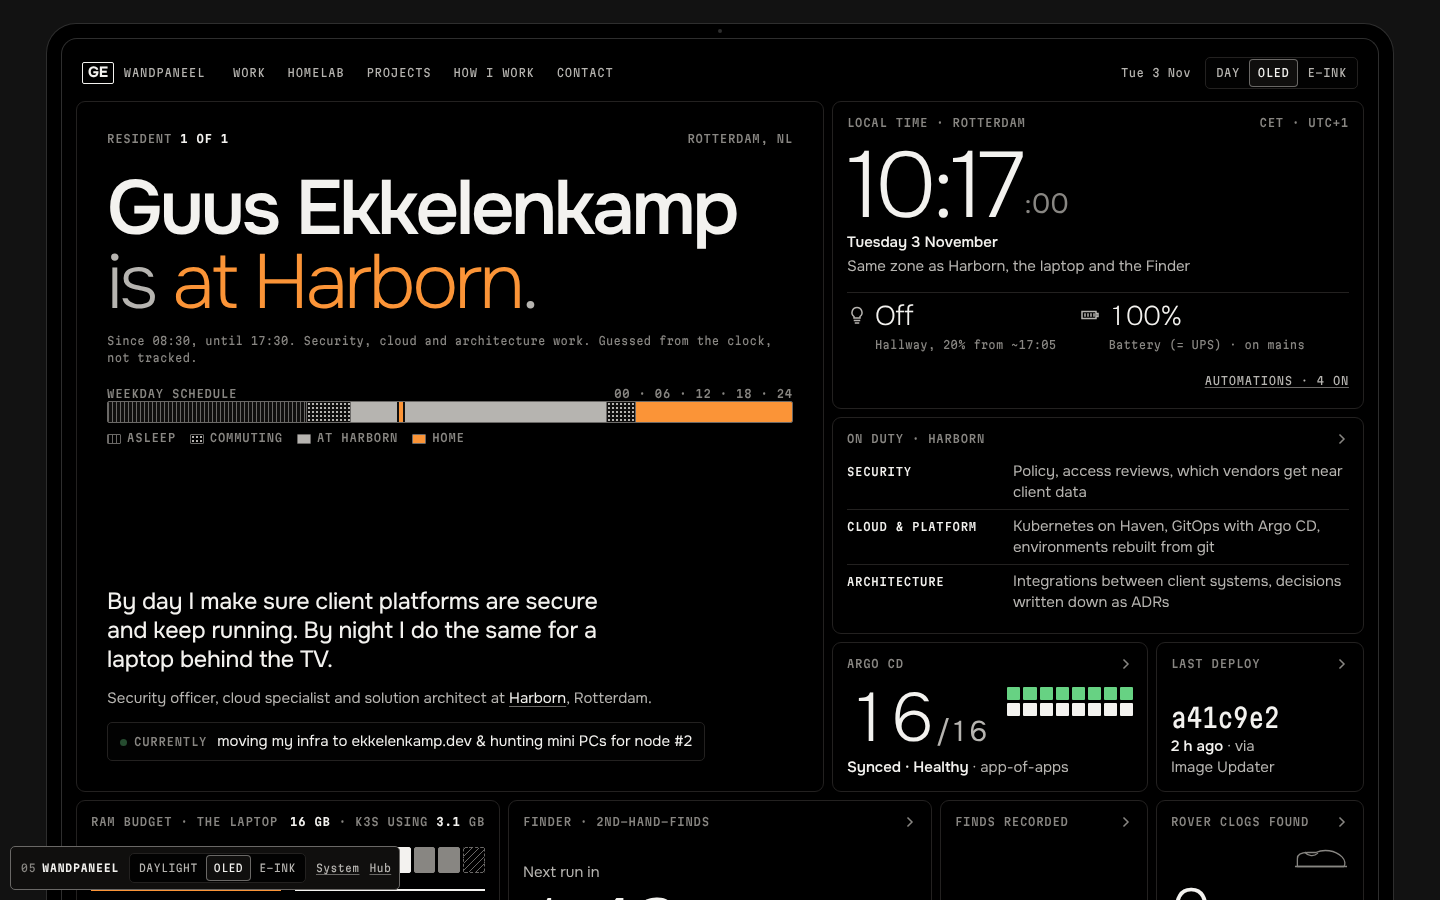
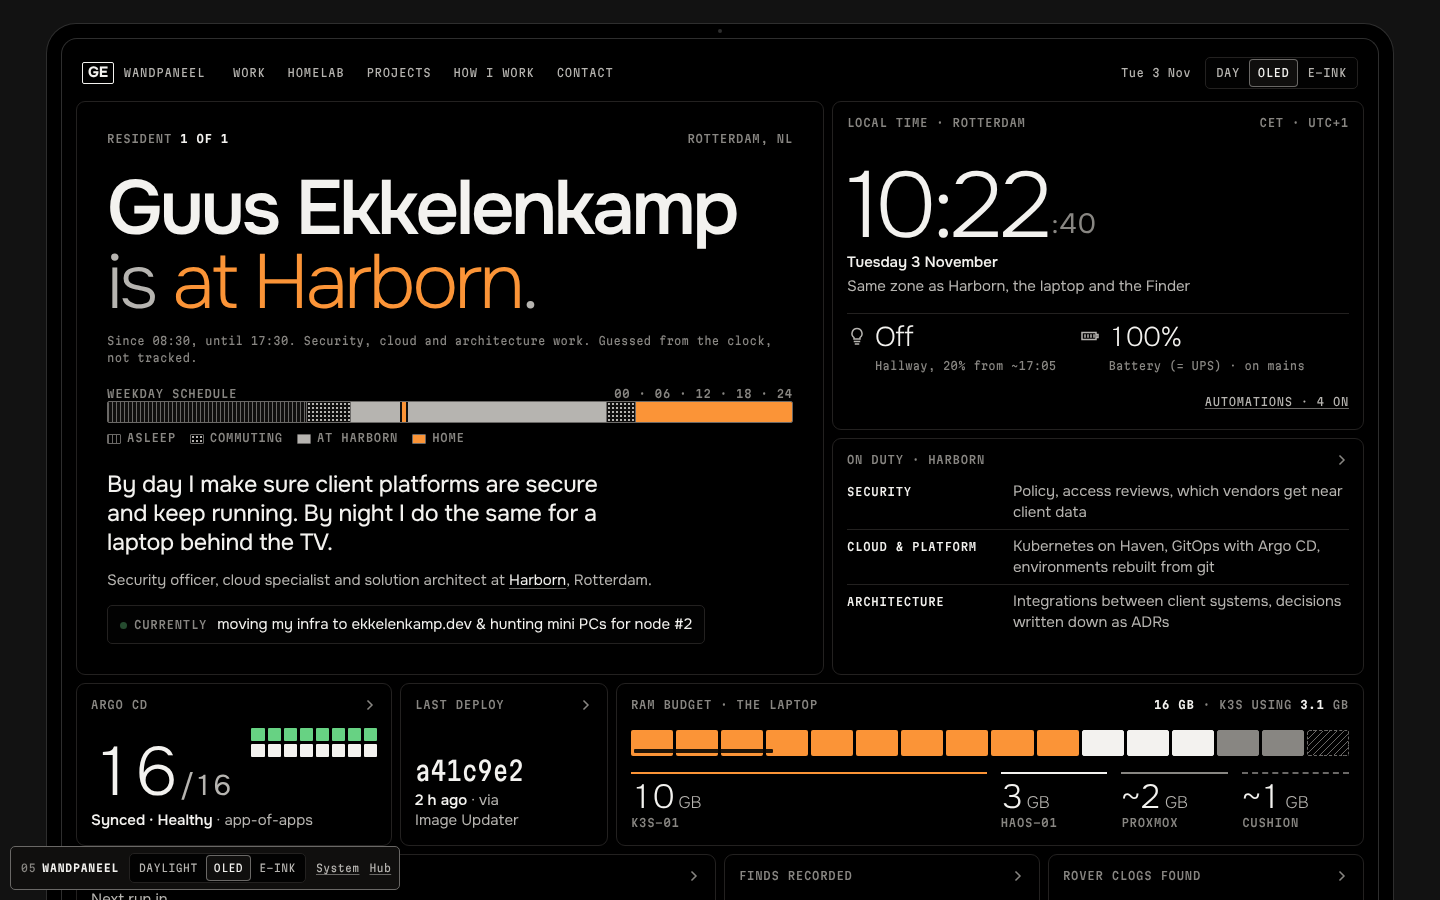
Add direction 05 Wandpaneel (homepage, system sheet, previews)
Claude-Session: https://claude.ai/code/session_01MZiGAcmWGZMW18cgyC5YR7

diff --git a/design/directions/05-wall-panel/wandpaneel.css b/design/directions/05-wall-panel/wandpaneel.css
@@ -513,9 +513,10 @@
   .arch__name { display: flex; flex-wrap: wrap; justify-content: space-between; gap: 2px 12px; margin-block-end: 10px; }
   .arch__name b { font-weight: 600; font-size: var(--step-0); letter-spacing: -0.01em; }
   .arch__kids { display: grid; gap: 8px; }
-  @media (min-width: 760px) { .arch__kids--vms { grid-template-columns: 5fr 3fr; } }
+  .arch, .arch__box { container-type: inline-size; }
+  @container (min-width: 640px) { .arch__kids--vms { grid-template-columns: 5fr 3fr; } }
   .arch__leaf { display: grid; grid-template-columns: 1fr; gap: 0 12px; padding-block: 7px; border-block-start: 1px solid var(--line); }
-  @media (min-width: 600px) { .arch__leaf { grid-template-columns: minmax(10rem, 1fr) minmax(0, 1.4fr); } }
+  @container (min-width: 380px) { .arch__leaf { grid-template-columns: minmax(8rem, 1fr) minmax(0, 1.4fr); } }
   .arch__leaf:first-child { border: 0; padding-block-start: 0; }
   .arch__leaf span:first-child { font-weight: 560; }
   .arch__leaf span + span { color: var(--ink-muted); }

diff --git a/design/directions/03-poster/system.html b/design/directions/03-poster/system.html
@@ -49,7 +49,8 @@
   .sw { display: inline-block; width: 1.1em; height: 1.1em; vertical-align: -.2em; margin-inline-end: .5em; border: 1px solid var(--line-strong); }
   .semtable__p { font-family: var(--font-mono); font-size: .9em; }
   .semtable__hex { font-family: var(--font-mono); font-size: .8em; color: var(--ink-muted); }
-  .ctables { display: grid; gap: var(--space-xl); }
+  .ctables { display: grid; gap: var(--space-xl); grid-template-columns: minmax(0, 1fr); }
+  .ctable, .comp, .stage { min-width: 0; }
   .ctable__title { font-family: var(--font-display); font-weight: 900; font-stretch: 125%; text-transform: uppercase; font-size: var(--step-2); }
   .ctable__note { color: var(--ink-muted); margin-block-end: var(--space-xs); }
   .ctable { border-inline-start: var(--rule-heavy) solid transparent; padding-inline-start: var(--space-s); }

diff --git a/design/directions/05-wall-panel/README.md b/design/directions/05-wall-panel/README.md
@@ -1,0 +1,84 @@
+# 05 · Wandpaneel (wall panel)
+
+## Concept
+
+The site is the wall panel of Guus's smart home, turned into a status interface for a person.
+The first screen is one dense, typeset panel of live-feeling state: the Rotterdam clock, a guess
+at where Guus is right now ("is at Harborn", derived from the time of day, never tracked), what
+he's on duty for at Harborn (security, cloud & platform, architecture), Argo CD at 16/16, the last
+deploy, the RAM budget as sixteen 1 GB cells, the Finder's countdown to its next run, 283 finds
+and 0 Rover clogs ("Still looking."). On wide screens the panel sits in a physical tablet frame on
+a plaster wall. Every tile links into a "detail view" below: rows for specs, settings toggles for
+principles, an event log for the gotchas, trigger → action rows for automations, job panes for the
+day job. Numbers are the imagery.
+
+## Why it fits Guus
+
+He actually has a wall panel, and the homelab is the thing he's proudest of. A status UI is the
+most honest way to "show depth instead of claiming it": every number on the first screen is real
+(or plainly labelled illustrative) and every one opens into the story behind it. The day job gets
+its own tile on the first screen and a full detail view right before the homelab, and the two are
+tied together: each job pane ends with a "same rule at home" link into the matching homelab
+section, and the view closes with the bridge line ("Same rules, smaller blast radius"). Job titles
+only appear as small facts; the copy says what the work is.
+
+## Options (tokens only)
+
+| Option | What it is | Pick it when |
+|---|---|---|
+| `daylight` (default light) | Warm cream screen on a plaster wall, umber ink, one lamp-amber accent, soft frame shadow | The default. Friendly, warm, reads as a physical object |
+| `oled` (default for dark preference) | True black, hairlines instead of shadows, one vivid orange, no glows | Dark-mode visitors; the most "premium device" version |
+| `e-ink` | Pure greyscale, 0 radius, CSS dither patterns in meters, no tweening, seconds hidden, a 300 ms black/white refresh flash on switching (skipped under reduced motion) | The most distinctive; a great "remember it tomorrow" option, could be an easter egg |
+
+All three override tokens only (`--c-seg-*` and `--c-day-*` hold the dither patterns,
+`--c-dur: 0ms` and `--c-seconds: none` carry e-ink behaviour).
+
+## Risks
+
+- **Dashboard look.** The direction lives next to the banned bento grid. It's defended by
+  information-driven spans (no two tiles in a row are the same size), real data density, tabular
+  numerals instead of icons, restrained radius, one hero tile and the device frame. A careless
+  build (equal tiles, icons) would collapse into a SaaS template quickly.
+- **Fake live data.** Readouts are illustrative or clock-derived. The panel says so in one line
+  and the "Guus is" note says "guessed from the clock, not tracked". In production, Argo/deploy/
+  finds counts should come from build-time data, or stay clearly illustrative.
+- **The panel is taller than 900 px at 1440 wide**: the fourth tile row (Finder, finds, clogs)
+  sits just below the fold. Intentional: the cut invites the scroll.
+- **Real content lives below the fold.** Anyone who only looks at the panel gets the summary; the
+  depth needs one scroll. The detail views are long but each starts with "← Panel".
+
+## Scaling to 10+ projects
+
+The Projects view is a device list: two featured panes, then compact rows (name, line, body,
+status chip). Ten more projects are ten more rows, no layout change. The panel itself doesn't
+grow: tiles are chosen for numbers worth reading (at most one new tile per year, e.g. a project
+that earns a metric). Toolbox groups are `auto-fit` columns and absorb new groups.
+
+## Build notes
+
+- **Astro components:** `Panel` (frame + grid), `Tile` (label, value, sub, href) with variants
+  `ClockTile`, `DutyTile`, `ArgoTile`, `RamTile`, `FinderTile`; `DetailView` (bar + head + slot),
+  `Rows`, `Setting`, `Automation`, `EventLog`/`Event`, `Record`, `JobPane`, `Bridge`, `ArchLayer`
+  (recursive), `Budget`, `ProjectFeatured`, `ProjectRow`, `ToolGroup`, `ReviewBar` (dev only).
+  Content from collections mirroring CONTENT.md; Argo count, last SHA and deploy date injected at
+  build time.
+- **Fonts to self-host:** Onest variable (wght 200–800, Latin + Latin-ext) and Martian Mono
+  variable (wdth 75–112.5, wght 300–700), both WOFF2 subsets, `font-display: swap`, preload Onest.
+- **JS:** `wandpaneel.js` is about 7 KB unminified: option switch (URL → localStorage →
+  prefers-color-scheme), tabs, the Europe/Amsterdam clock, the clock-derived status and day bar,
+  the Finder countdown, sunset-based hallway light and the RAM use drift. Without JS every readout
+  shows sensible static text ("is in Rotterdam", "Runs every 2 h", "CET") and tabs render stacked.
+  Known gap: without JS a dark-preference visitor gets `daylight` (avoids duplicating the OLED
+  token block in a media query; easy to add at build time).
+- **Files:** `index.html`, `system.html`, `wandpaneel.css` (tokens, options, components),
+  `wandpaneel.js`.
+
+## Self-score (BRIEF §7)
+
+| Criterion | Score | Why |
+|---|---|---|
+| Recognisable | 4 | "Guus is at Harborn." in huge type next to a ticking clock and "Rover clogs found: 0" is memorable; e-ink especially so. Loses a point because "dashboard" is a known genre |
+| Credible | 5 | Real numbers everywhere, each one opens into the decision, the log entry or the spec behind it; the day job's "same rule at home" links make the role claims believable |
+| Personal | 5 | Only works for someone who actually runs a wall panel, a homelab and a clog-hunting bot |
+| Durable | 3 | Status UIs date faster than editorial layouts, and the live gimmicks may feel less fresh in two years. The token system and detail views age fine |
+| Buildable | 4 | Static, tiny JS, no libraries. The only real work is build-time data for Argo/deploy/finds and keeping the panel honest |
